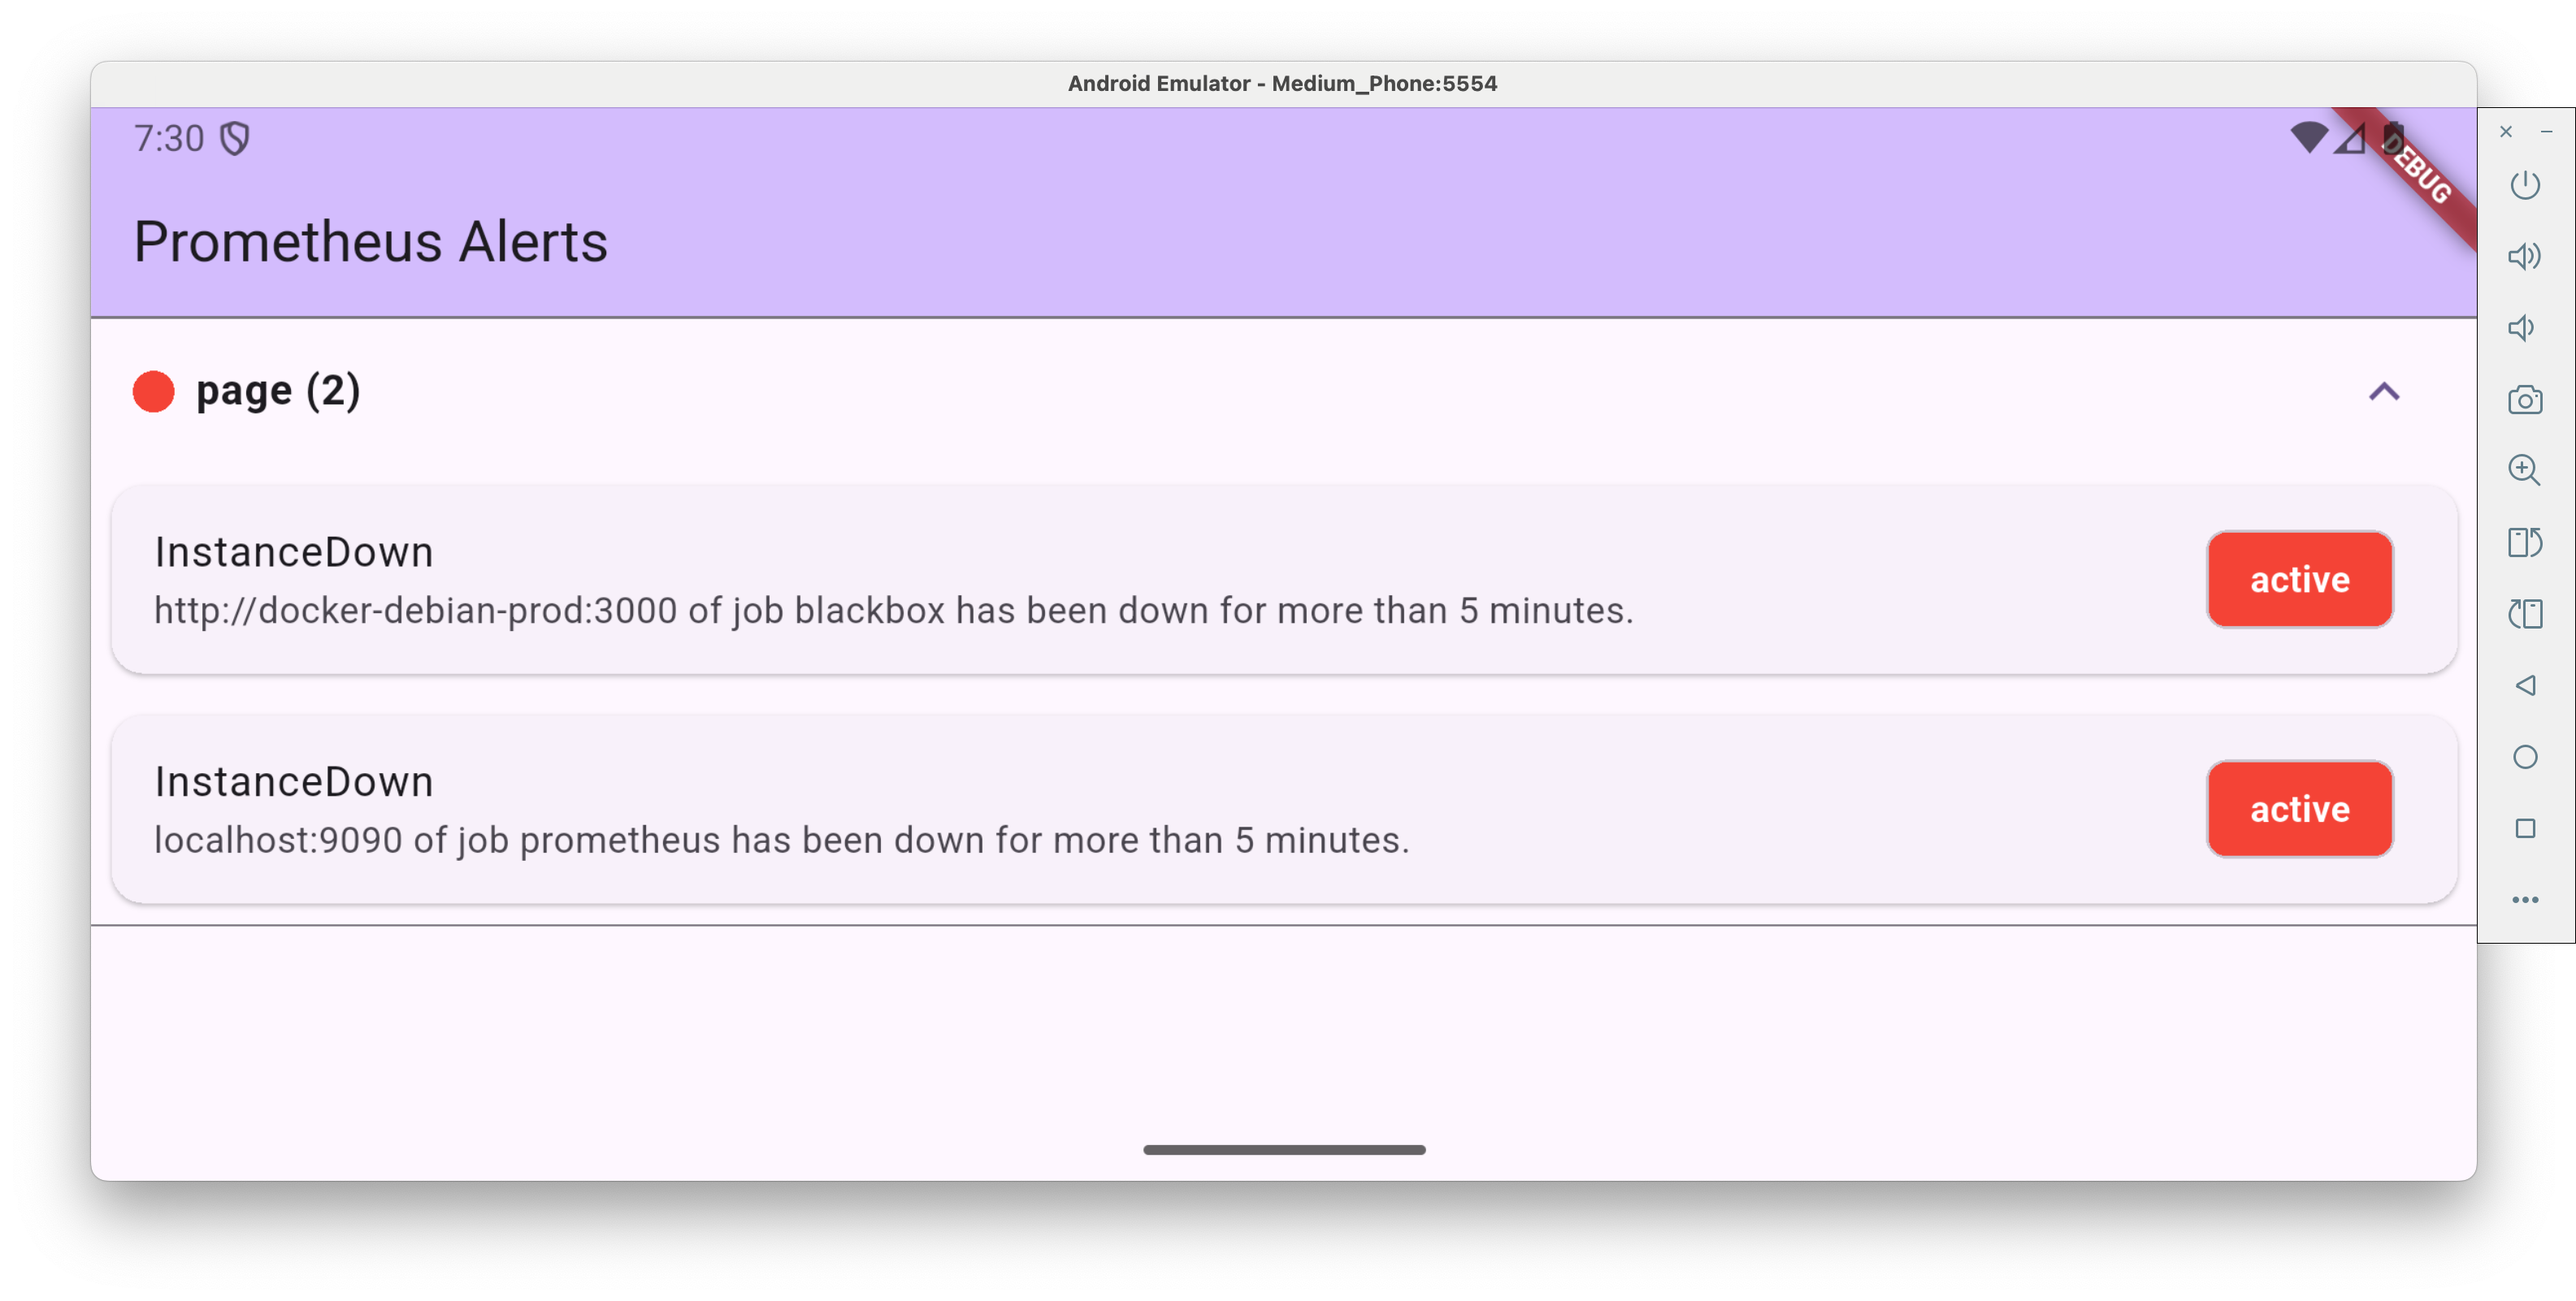
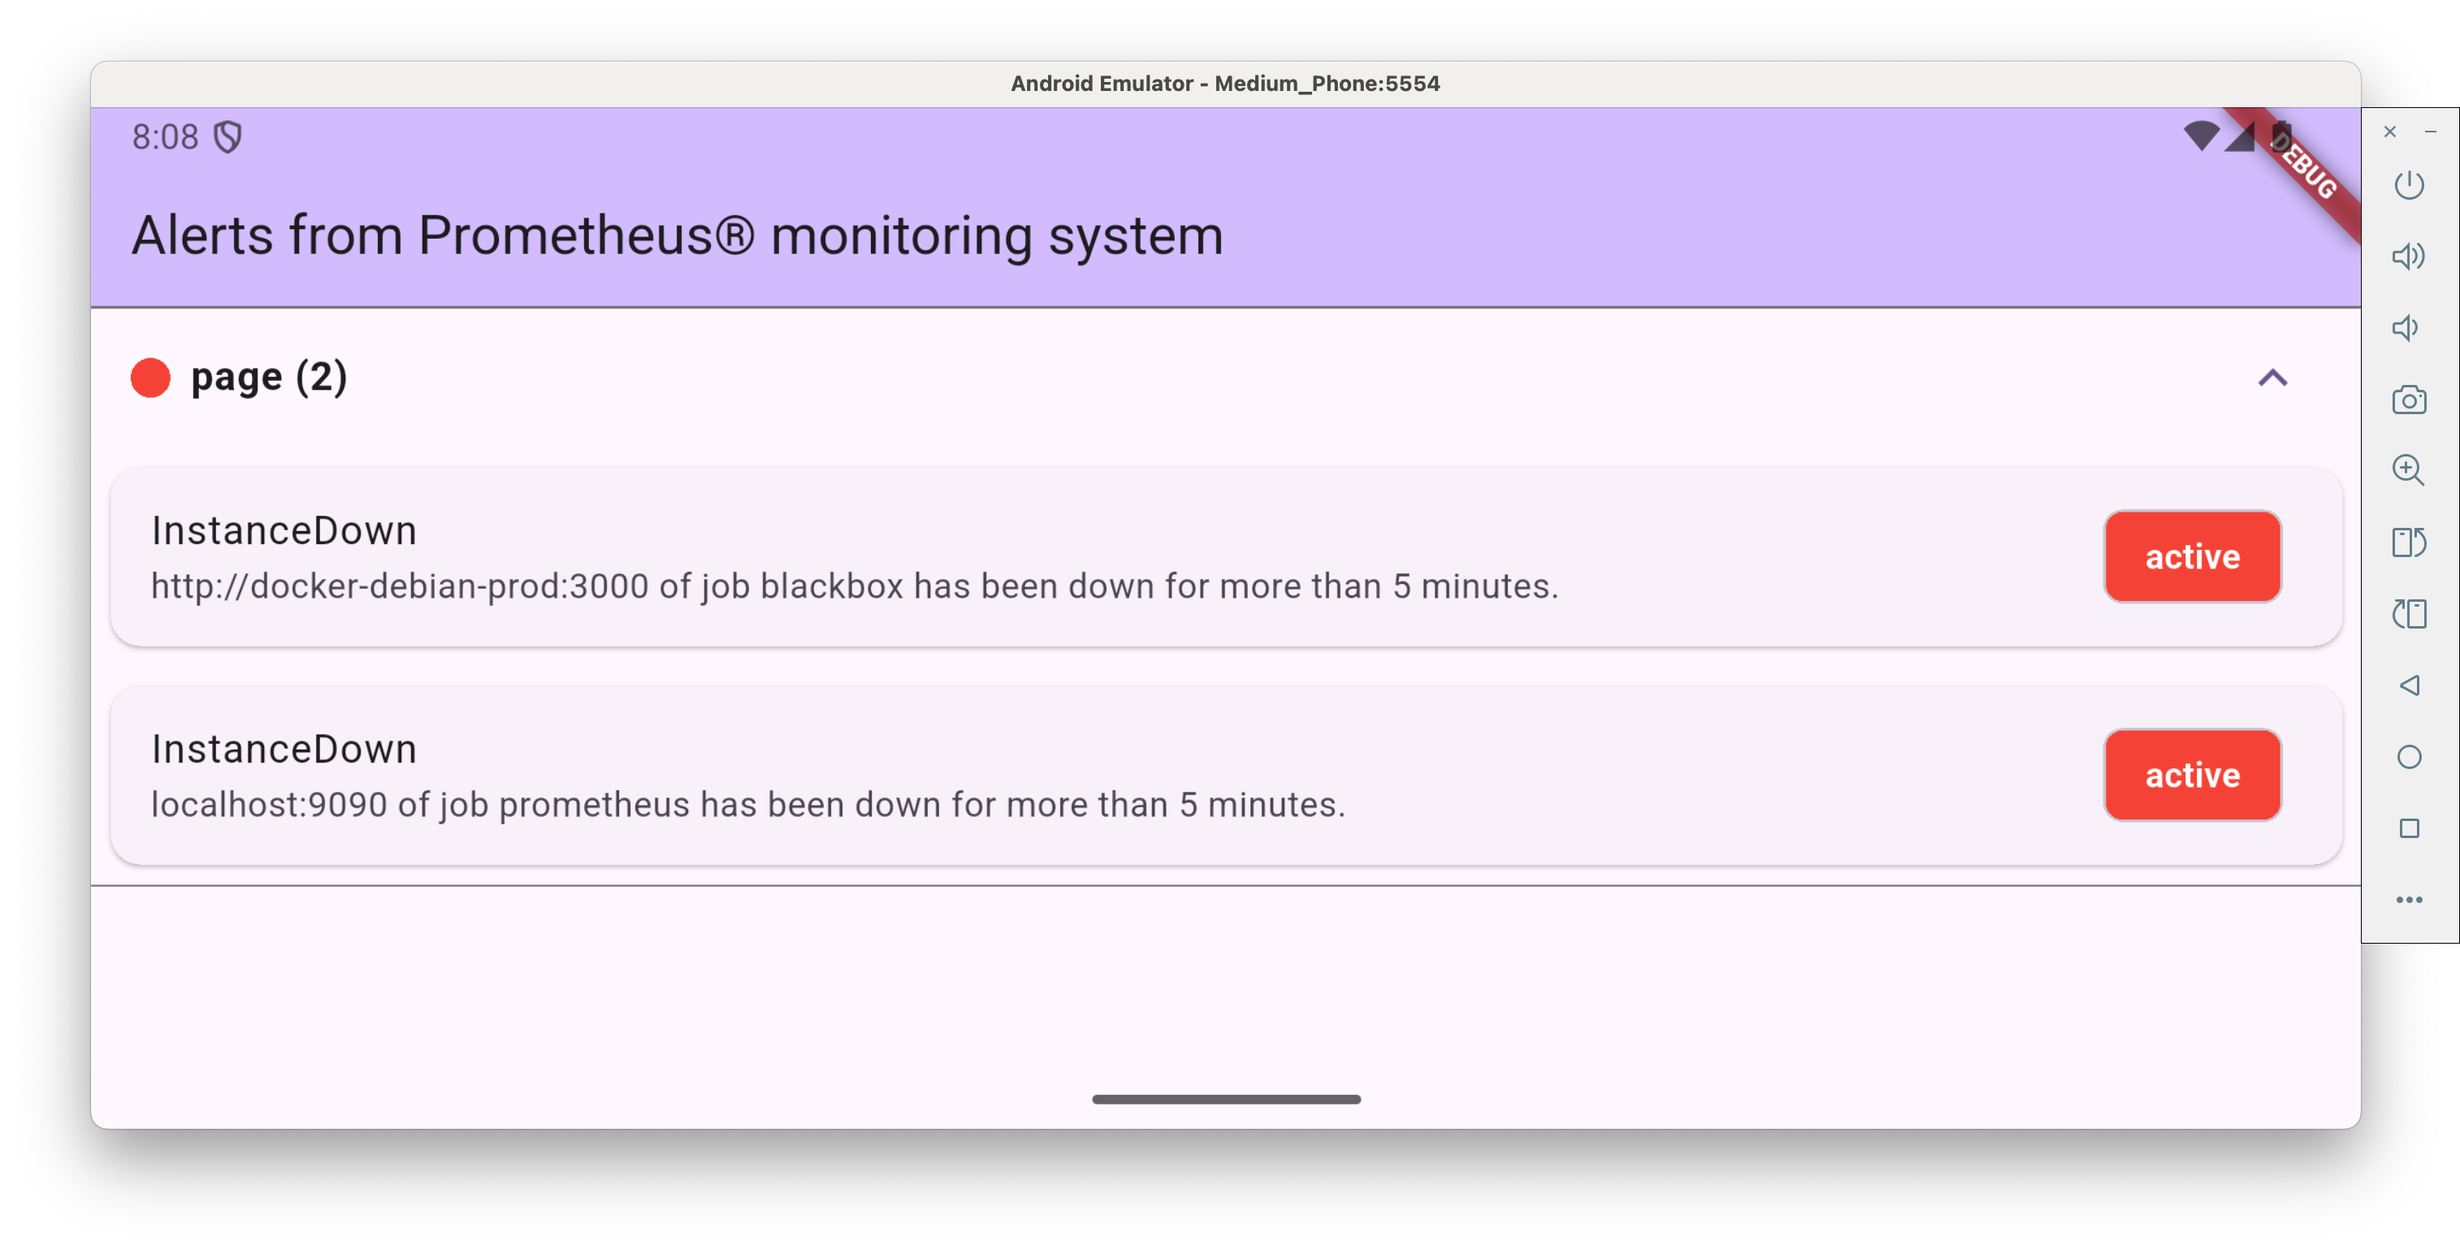
docs: legal disclaimer

diff --git a/lib/main.dart b/lib/main.dart
@@ -32,7 +32,7 @@ class MyApp extends StatelessWidget {
         // tested with just a hot reload.
         colorScheme: ColorScheme.fromSeed(seedColor: Colors.deepPurple),
       ),
-      home: const AlertListScreen(title: 'Prometheus Alerts'),
+      home: const AlertListScreen(title: 'Alerts from Prometheus® monitoring system'),
     );
   }
 }

diff --git a/README.md b/README.md
@@ -1,12 +1,23 @@
 # flutter_application_alertmanager
 
-A simple [Flutter](https://flutter.dev/) app to fetch and display [Prometheus Alertmanager](https://prometheus.io/docs/alerting/alertmanager/) alerts from its REST API.
+A simple [Flutter](https://flutter.dev/) app to fetch and display [Prometheus® Alertmanager](https://prometheus.io/docs/alerting/alertmanager/) alerts from its REST API.
+
+*Not affiliated with the official Prometheus® Alertmanager project.*
 
 ![Alert overview landscape](docs/images/landscape.png)
 
 ## Requirements
+
 - Flutter SDK >= 3.8.1
 - An accessible Alertmanager instance >= 0.28.1
+
+## Legal Disclaimer
+
+This project is an independent, open-source application developed to interact with the [Prometheus® Alertmanager](https://prometheus.io/docs/alerting/alertmanager/) API.
+
+It is **NOT** affiliated with, endorsed by, or officially supported by the [Prometheus®](https://prometheus.io/) Authors, [The Linux Foundation®](https://training.linuxfoundation.org/training/monitoring-systems-and-services-with-prometheus-lfs241/), the [Cloud Native Computing Foundation®](https://www.cncf.io/projects/prometheus/) (CNCF®), or any of their related proejcts or organizations.
+
+“Prometheus®” is a registered trademark of their respective owners. Use of this name is for informational purposes only.
 
 ## Developing
 
